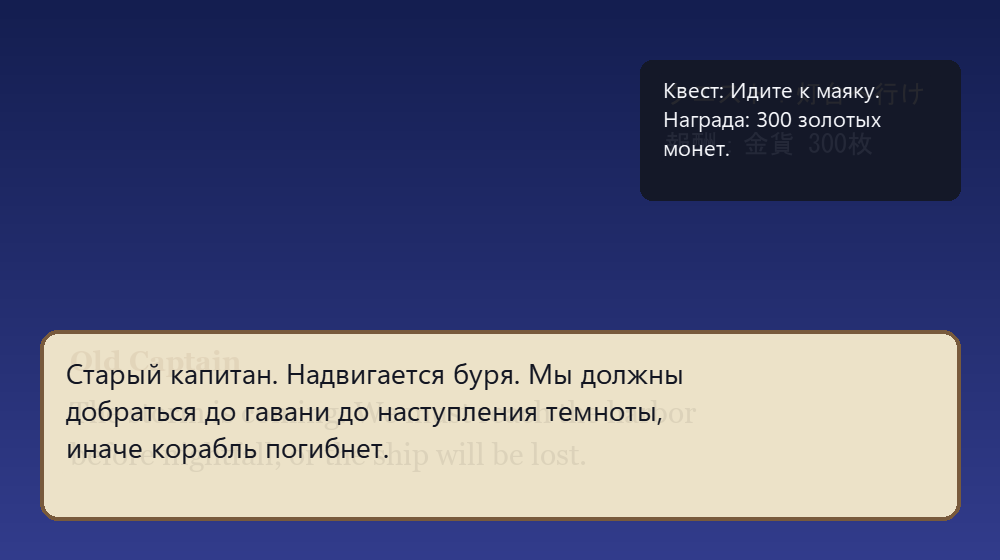
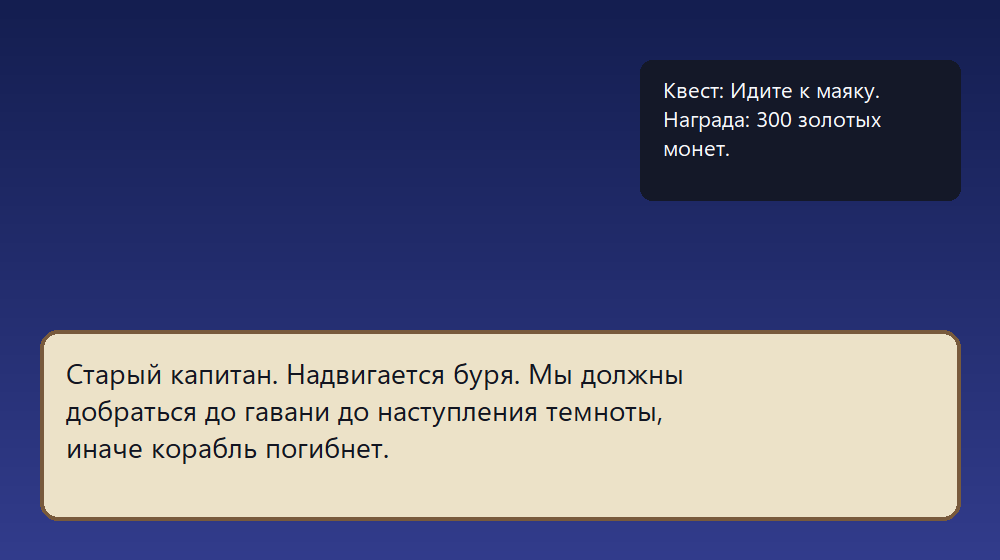
fix: opaque overlay by default, refresh demo images

diff --git a/screenlingo/ui/overlay.py b/screenlingo/ui/overlay.py
@@ -62,7 +62,7 @@ class TranslationOverlay(QWidget):
         self.scale = 1.0
         self.blocks, self.translations = [], []
         self.show_original = False
-        self.opacity = 0.92
+        self.opacity = 1.0
         self.font_px = 0
         self._layout = []  # кэш: (прямоугольник, цвет фона, цвет текста, шрифт, текст)
 
